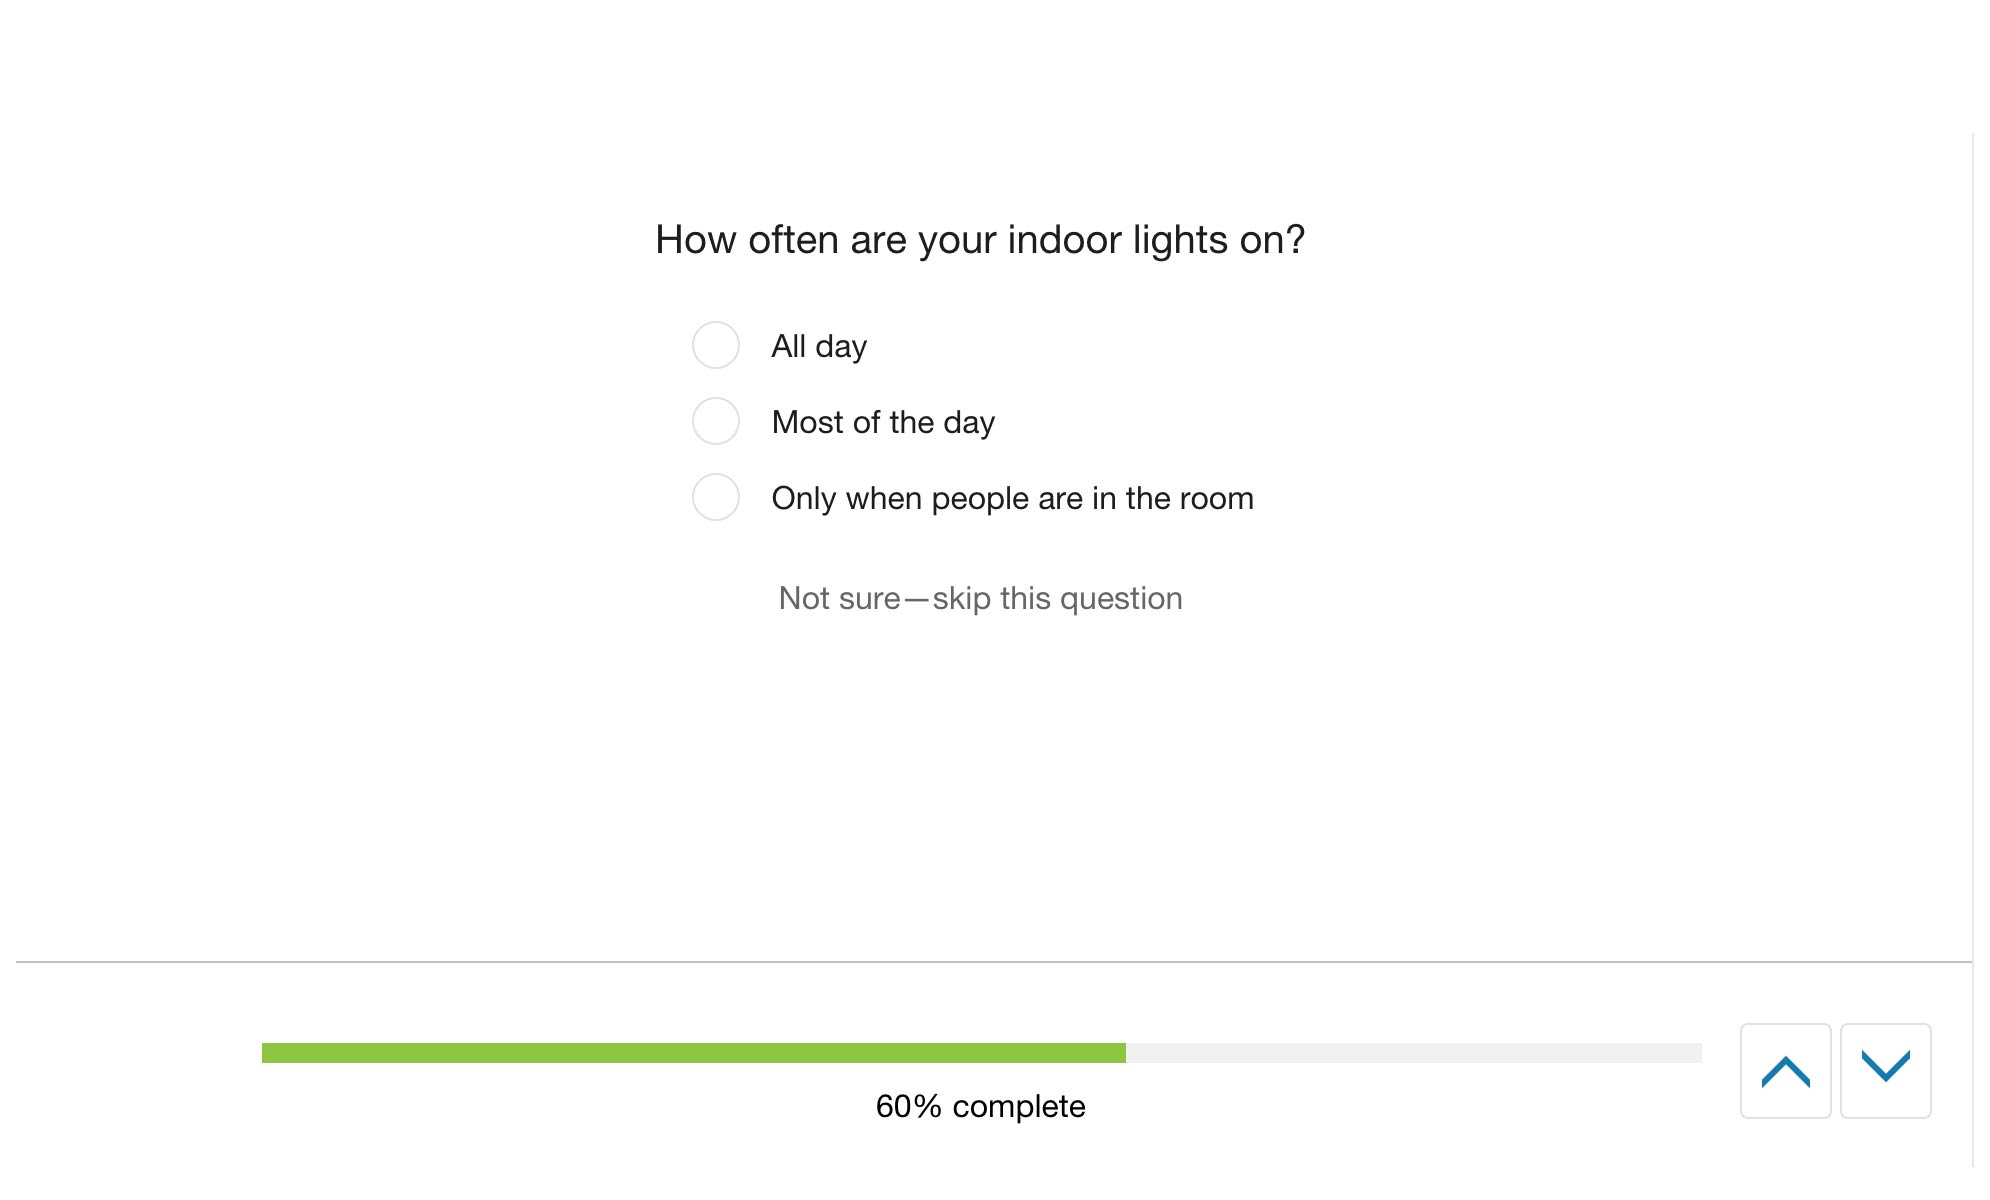
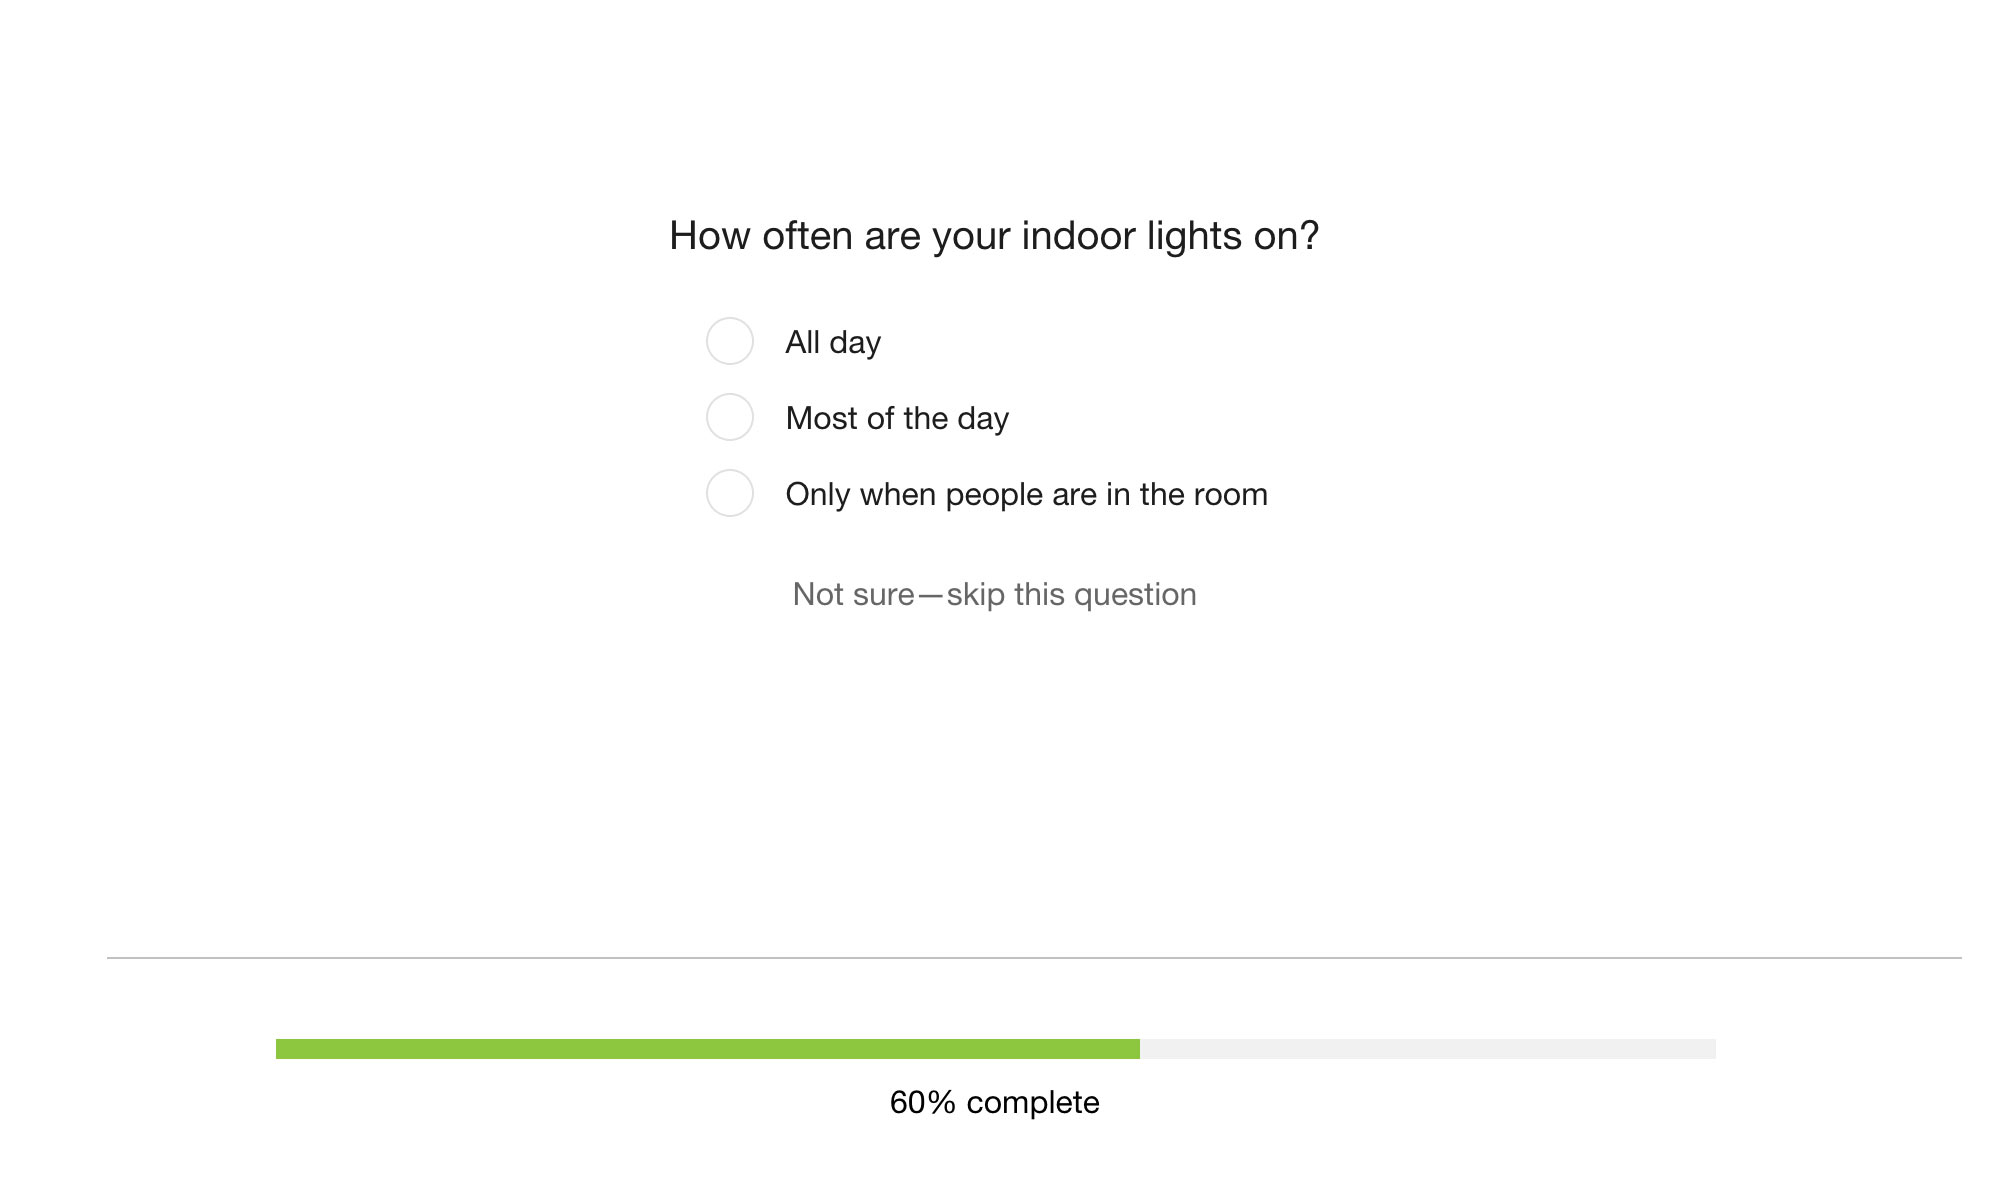
adds small tweaks to the HEA slider made on the consensuswork site

diff --git a/page-content-my-home-profile.html b/page-content-my-home-profile.html
@@ -629,16 +629,18 @@ _spBodyOnLoadFunctionNames.push("setupPageDescriptionCallout"); // ]]>
 <div id="home-energy-analyses-q">
 	<script type="text/javascript" src="js/jquery.cycle2.min.js"></script>
    <style>
-	   		#home-energy-analyses-q {
-		   		position: relative;
-		   		z-index: 0;
-	   		}
+			#home-energy-analyses-q {
+				position: relative;
+				z-index: 0;
+				height:650px
+			}
         .hea-quiz {
           overflow: hidden;
           width:900px;
           height:650px;
           clear:both;
           margin:0 0 20px 0;
+		  position:relative;
         }
 
           .hea-quiz img {
@@ -647,16 +649,30 @@ _spBodyOnLoadFunctionNames.push("setupPageDescriptionCallout"); // ]]>
 
 
           .hea-center {
-            width:50%;
+	  	 	position:absolute;
+	   	 	bottom:155px;
+			right:0;
+	        width:11%;
             margin:0 auto;
+			z-index:1000;
           }
 
           .prevControl,
           .nextControl {
-            padding:10px;
-            background:#e9e9e9;
+			color:#107cb2;
+            padding:10px 17px;
+            background:#fff;
             font-size:14px;
-            cursor:pointer;
+            cursor:pointer; 
+			border-radius: 4px;
+			border:1px solid #E1E1E1;
+			-webkit-transition: all 0.2s;
+			-moz-transition: all 0.2s;
+			transition: all 0.2s; 
+			display: inline-block; 
+			font-weight: normal;
+			position: relative;
+			text-align: center;  
           }
 
 
@@ -664,9 +680,12 @@ _spBodyOnLoadFunctionNames.push("setupPageDescriptionCallout"); // ]]>
           .nextControl {float:right;}
   </style>
 
-    <div class="hea-quiz cycle-slideshow"
-          data-cycle-prev=".prevControl"
-          data-cycle-next=".nextControl">
+
+	  <div class="hea-quiz cycle-slideshow"
+		   data-timeout="0"
+	          data-cycle-fx="fadeout" 
+    	data-cycle-prev=".prevControl"
+      	data-cycle-next=".nextControl" >
 
               <img src="images-hea-slider/step-1.png">
               <img src="images-hea-slider/step-2.png">
@@ -686,19 +705,14 @@ _spBodyOnLoadFunctionNames.push("setupPageDescriptionCallout"); // ]]>
               <img src="images-hea-slider/step-16.jpg">
               <img src="images-hea-slider/step-17.jpg">
 
-              <div class="hea-center">
-                 <span class="prevControl" >&#8592; Prev </span>
-                 <span class="nextControl" > Next &#8594;</span>
-              </div>
+            
     </div><!-- eo / hea-quiz -->
-
+  <div class="hea-center">
+                 <span class="prevControl" >&#8595;</span>
+                 <span class="nextControl" >&#8593;</span>
+              </div>
     <script>
-      $('.cycle-slideshow').cycle({
-//           speed: 600,
-          manualSpeed: 100,
-          timeout: 0,
-
-      });
+      $('.cycle-slideshow').cycle('stop');
     </script>
 </div>
 <!-- END HEA -->

diff --git a/UtilityCo - Bill Comparison_files/screen-generic.css b/UtilityCo - Bill Comparison_files/screen-generic.css
@@ -2720,7 +2720,7 @@ body,
 }
 #colorbox,
 #cboxOverlay,
-#cboxWrapper{position:absolute; top:0; left:0; z-index:9999; overflow:hidden;}
+#cboxWrapper{position:absolute; top:0; left:0; z-index:99999; overflow:hidden;}
 #cboxOverlay{position:fixed; width:100%; height:100%;}
 #cboxMiddleLeft, #cboxBottomLeft{clear:left;}
 #cboxContent{position:relative; overflow:hidden;}
@@ -2733,7 +2733,7 @@ body,
 #cboxLoadingOverlay, #cboxLoadingGraphic{position:absolute; top:0; left:0; width:100%;}
 #cboxPrevious, #cboxNext, #cboxClose, #cboxSlideshow{cursor:pointer;}
 
-#cboxOverlay{background:#333;}
+#cboxOverlay{background:#333; }
 #colorbox{
   font-size: 13px;
   background:#fff;

diff --git a/page-content-side.html b/page-content-side.html
@@ -739,6 +739,12 @@ _spBodyOnLoadFunctionNames.push("setupPageDescriptionCallout"); // ]]>
 <div id="widget-container-opower">
 
 <link rel="stylesheet" href="UtilityCo - Bill Comparison_files/screen-generic.css" type="text/css">
+<style>
+	#widget-container-opower {
+		margin-bottom: 20px;
+		border:1px solid #ddd;
+	}
+</style>
 
 
 <!-- 	content -->
